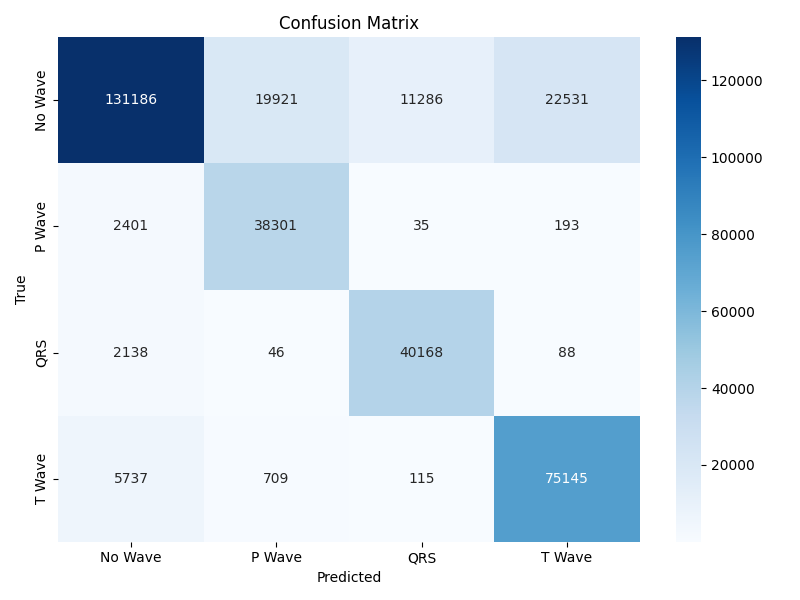
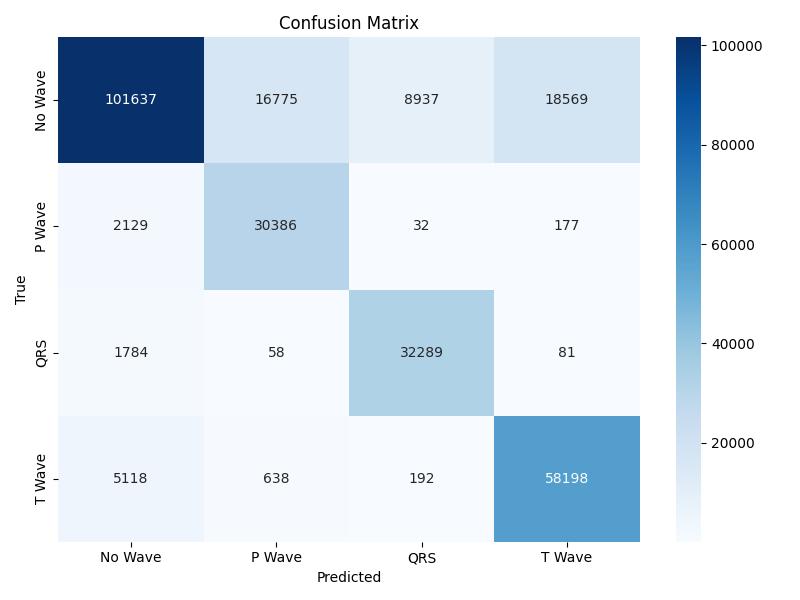
.

diff --git a/evaluate.py b/evaluate.py
@@ -42,11 +42,7 @@ def load_model(load_dir, device):
     model.load_state_dict(torch.load(model_path, map_location=device))
     model.to(device).eval()
 
-    return model, {
-        "num_classes": args.get("num_classes", 4),
-        "sequence_length": args.get("sequence_length", 250),
-        "overlap": args.get("overlap", 125),
-    }
+    return model, args.get("num_classes", 4)
 
 def plot_sample(signal, true, pred, output_dir, index=0, seq_len=None):
     """Plot signal with true/predicted labels."""
@@ -175,16 +171,18 @@ def main():
     parser.add_argument("--eval_batch_size", type=int, default=64)
     parser.add_argument("--num_workers", type=int, default=4)
     parser.add_argument("--plot_sample_index", type=int)
+    parser.add_argument("--sequence_length", type=int, default=500) 
+
 
     args = parser.parse_args()
     os.makedirs(args.output_dir, exist_ok=True)
 
-    model, params = load_model(args.load_dir, DEVICE)
+    model, num_classes = load_model(args.load_dir, DEVICE)
 
     dataset = ECGFullDataset(
         data_dir=args.data_dir_eval,
-        sequence_length=params["sequence_length"],
-        overlap=params["overlap"],
+        sequence_length=args.sequence_length,
+        overlap=0,
         sinusoidal_noise_mag=0.0, gaussian_noise_std=0.0,
         baseline_wander_mag=0.0, amplitude_scale_range=0.0, max_time_shift=0,
     )
@@ -200,7 +198,7 @@ def main():
         }
 
     loss_fn = nn.CrossEntropyLoss()
-    evaluate(model, dataloader, loss_fn, DEVICE, params["num_classes"], args.output_dir, sample_info)
+    evaluate(model, dataloader, loss_fn, DEVICE, num_classes, args.output_dir, sample_info)
 
 if __name__ == "__main__":
     main()

diff --git a/model/data_loader.py b/model/data_loader.py
@@ -110,8 +110,12 @@ class ECGFullDataset(Dataset):
     def _slice_channel_sequences(self, signal: torch.Tensor, labels: torch.Tensor):
         """Slices 1D signal and labels, stores fs."""
         stride = self.sequence_length - self.overlap
+        if stride <= 0:
+            logging.error(f"Stride must be positive. Current stride: {stride}")
+            return
         total_length = signal.shape[0]
-        if total_length < self.sequence_length: return
+        if total_length < self.sequence_length: 
+            return
         for start in range(0, total_length - self.sequence_length + 1, stride):
             end = start + self.sequence_length
             seq = signal[start:end]
